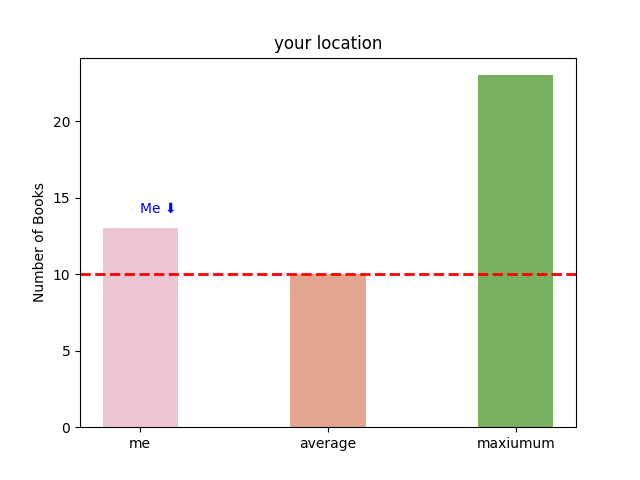
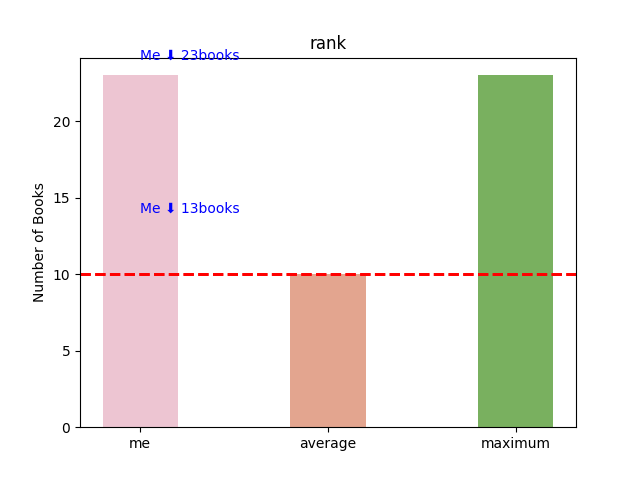
modified the graph

diff --git a/resources/analysis.py b/resources/analysis.py
@@ -7,6 +7,7 @@ import log
 import pandas as pd
 import matplotlib.pyplot as plt
 import numpy as np
+import time
 
 
 class CreateGraph(Resource):
@@ -57,10 +58,7 @@ class CreateGraph(Resource):
         print(n_values)
 
         x = np.arange(len(n_values))
-        labels = [None] * 3
-        labels[n_values.index(max(values))] = 'maxiumum'
-        labels[n_values.index(avg)] = 'average'
-        labels[n_values.index(me_values)] = 'me'
+        labels = ["me", "average", "maximum" ]
         print(labels)
 
         bar_colors = ['#edc5d2', '#e3a58f', '#79b05f']
@@ -68,13 +66,14 @@ class CreateGraph(Resource):
         plt.axhline(avg, 0, len(n_values), color='red',
                     linestyle='--', linewidth=2)
         plt.text(n_values.index(me_values),
-                 me_values+1, 'Me ⬇', color='blue')
+                 me_values+1, f'Me ⬇ {me_values}books', color='blue')
         plt.bar(x, n_values, align='center',
                 tick_label=labels, width=0.4, color=bar_colors)
-        plt.title('your location')
+        plt.title('rank')
         plt.ylabel('Number of Books')
 
         plt.savefig('static/images/graph.png')
+        
 
         response = {
             "version": "2.0",
